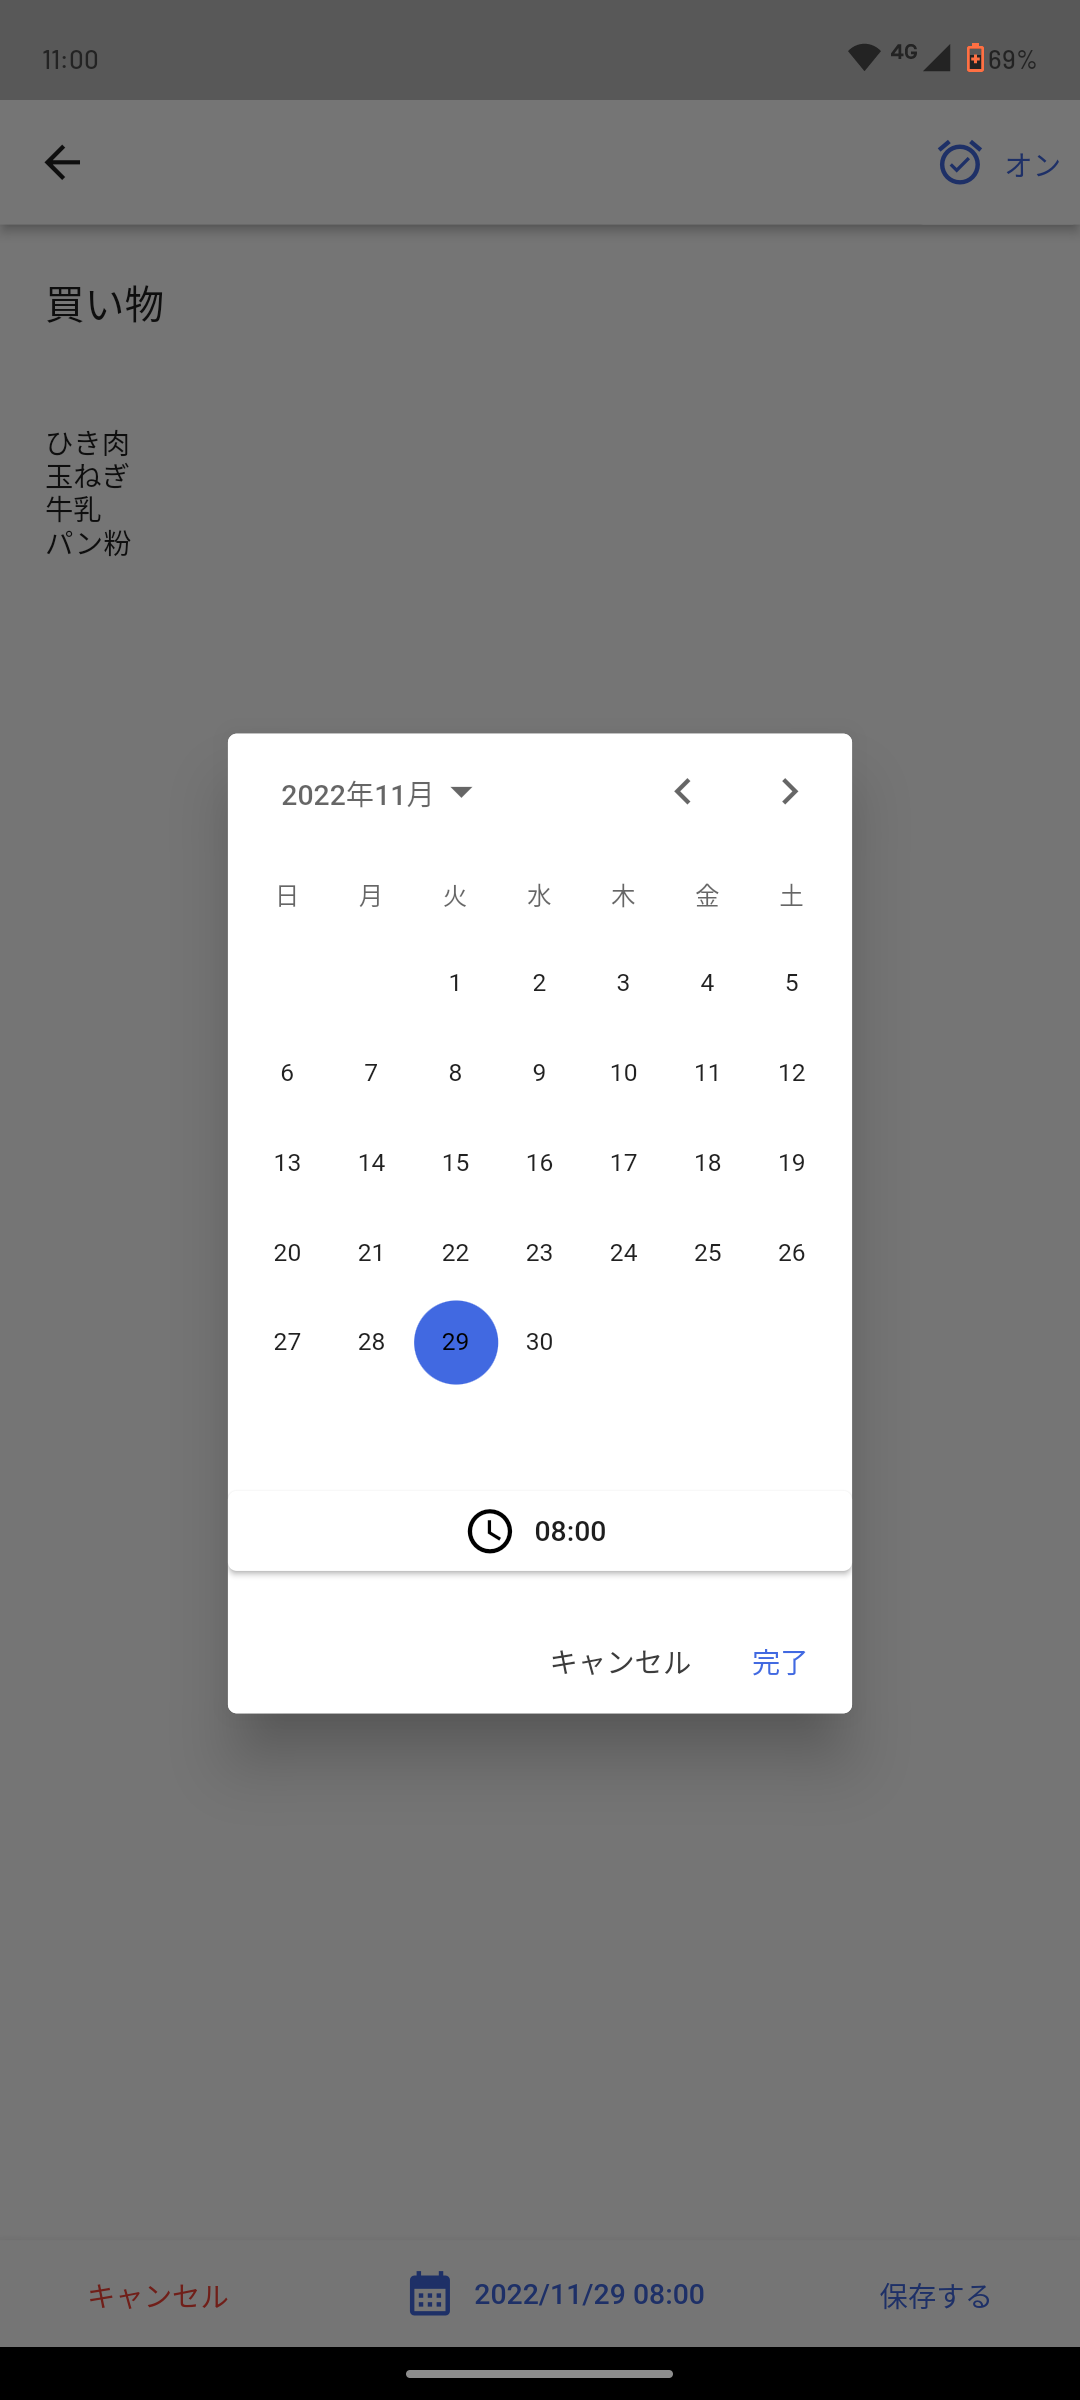
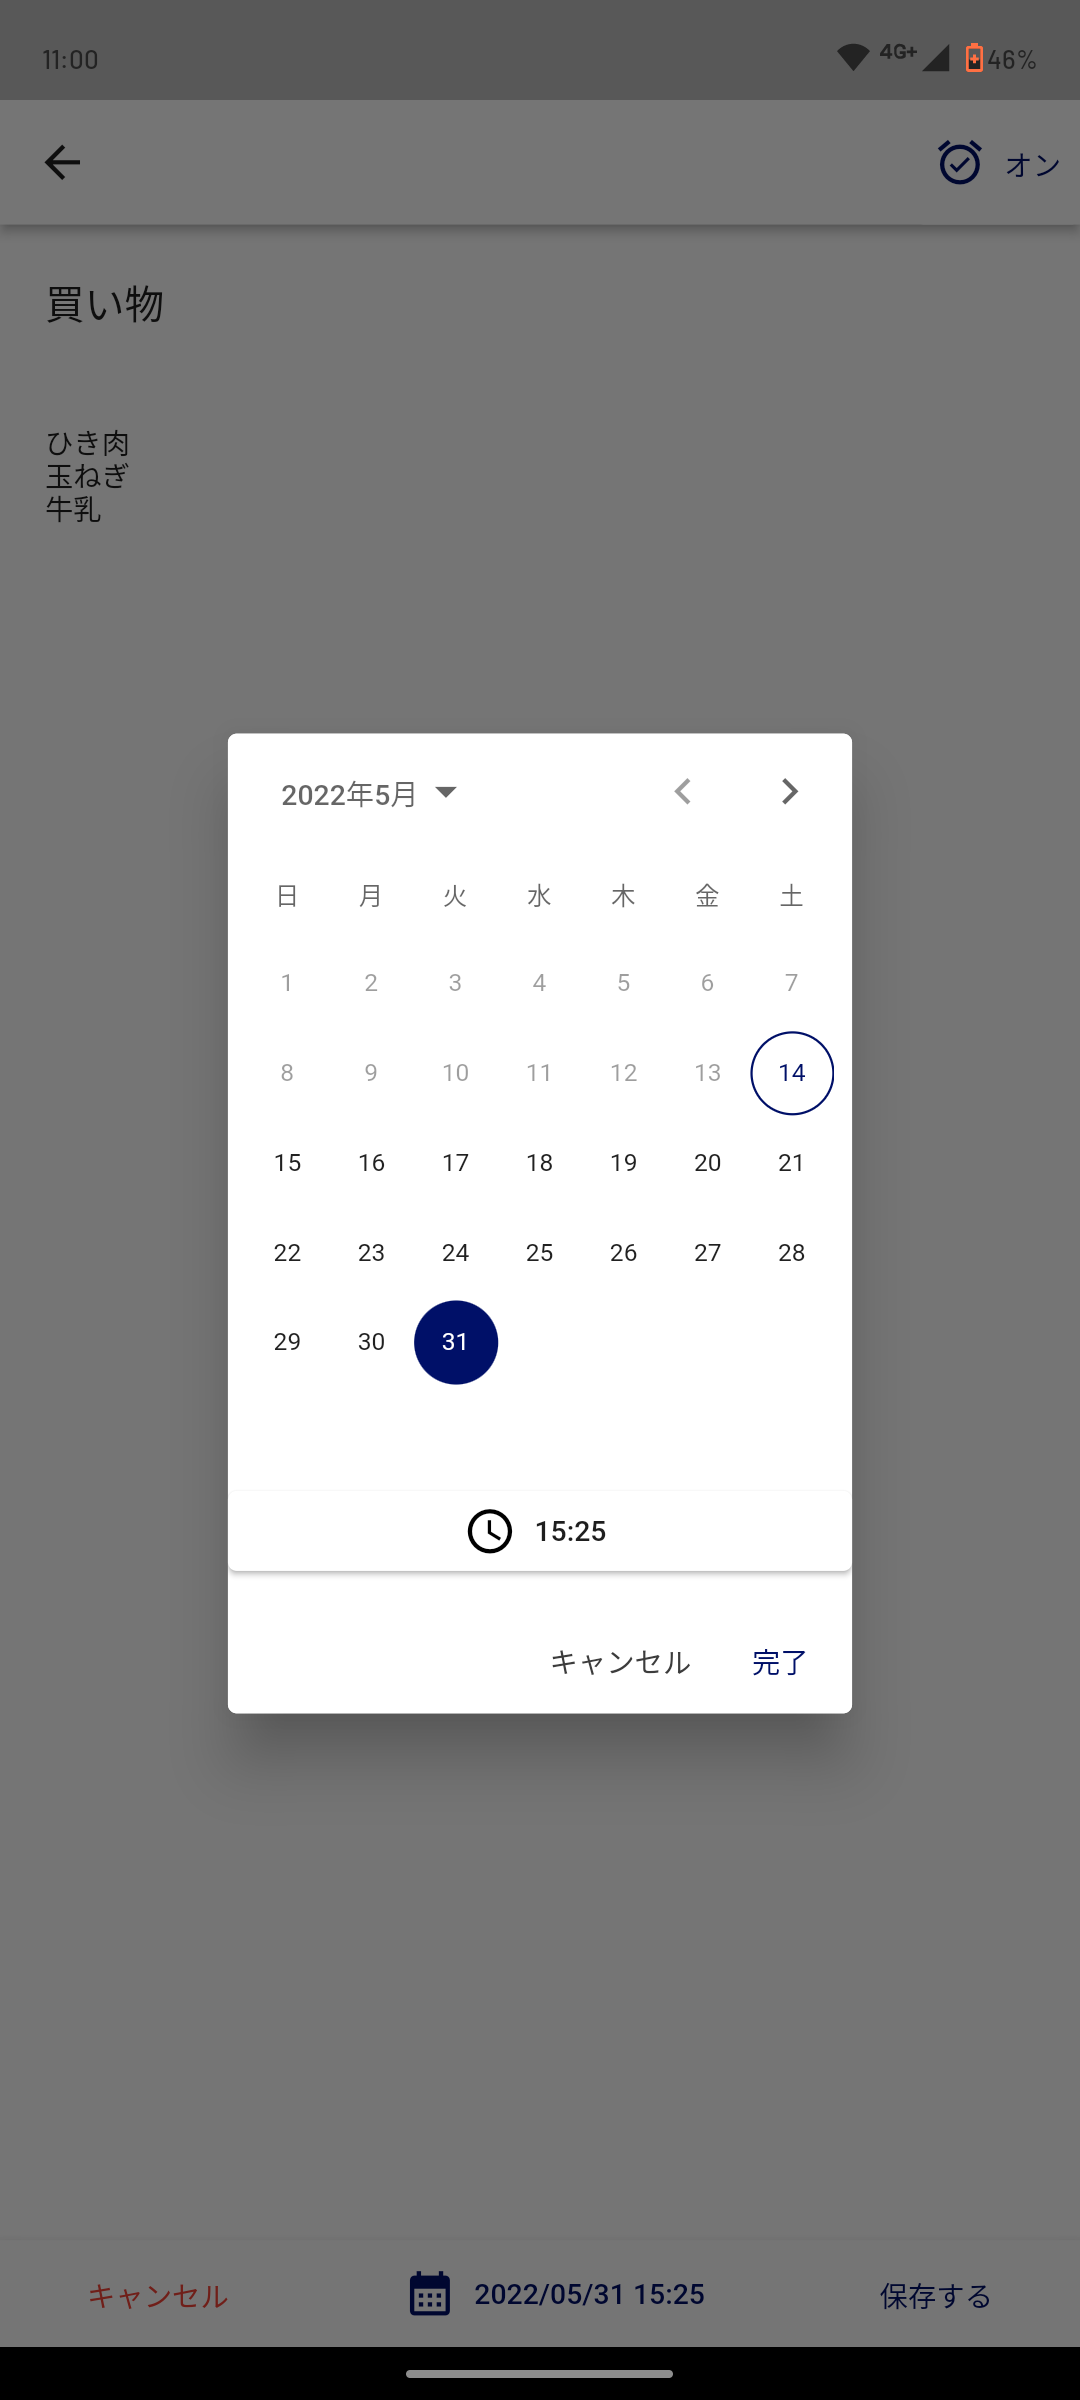
Fix
Changed the photos in the README.

diff --git a/README.md b/README.md
@@ -1,16 +1,19 @@
 # Reminder
+
 好きな時間にリマインダーを設定することで大事なことを思い出すことができる!
 アラームのオンオフを切り替えることが出来るため、メモとして活用することも出来る。
+
+設定画面のカラーピッカーを使うことで気分によって色を変更できる。
 <br>
 <dev style="display: flex;">
-    <img width="200" height="auto" src="./images/home_light.png">
-    <img width="200" height="auto" src="./images/add_light.png">
-    <img width="200" height="auto" src="./images/date_picker_light.png">
-    <img width="200" height="auto" src="./images/setting_light.png">
+<img width="200" height="auto" src="./images/home_light.png">
+<img width="200" height="auto" src="./images/add_light.png">
+<img width="200" height="auto" src="./images/date_picker_light.png">
+<img width="200" height="auto" src="./images/setting_light.png">
 </dev>
 <dev style="display: flex;">
-    <img width="200" height="auto" src="./images/home_dark.png">
-    <img width="200" height="auto" src="./images/add_dark.png">
-    <img width="200" height="auto" src="./images/date_picker_dark.png">
-    <img width="200" height="auto" src="./images/setting_dark.png">
+<img width="200" height="auto" src="./images/home_dark.png">
+<img width="200" height="auto" src="./images/add_dark.png">
+<img width="200" height="auto" src="./images/date_picker_dark.png">
+<img width="200" height="auto" src="./images/setting_dark.png">
 </dev>
